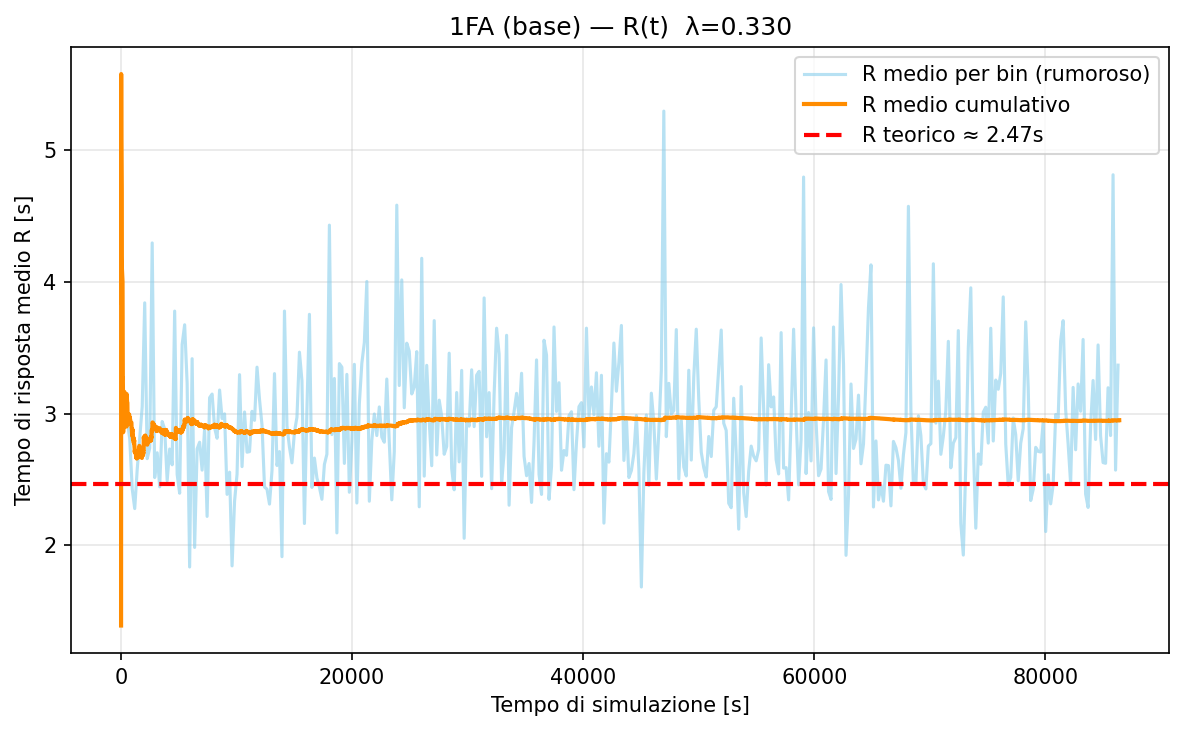
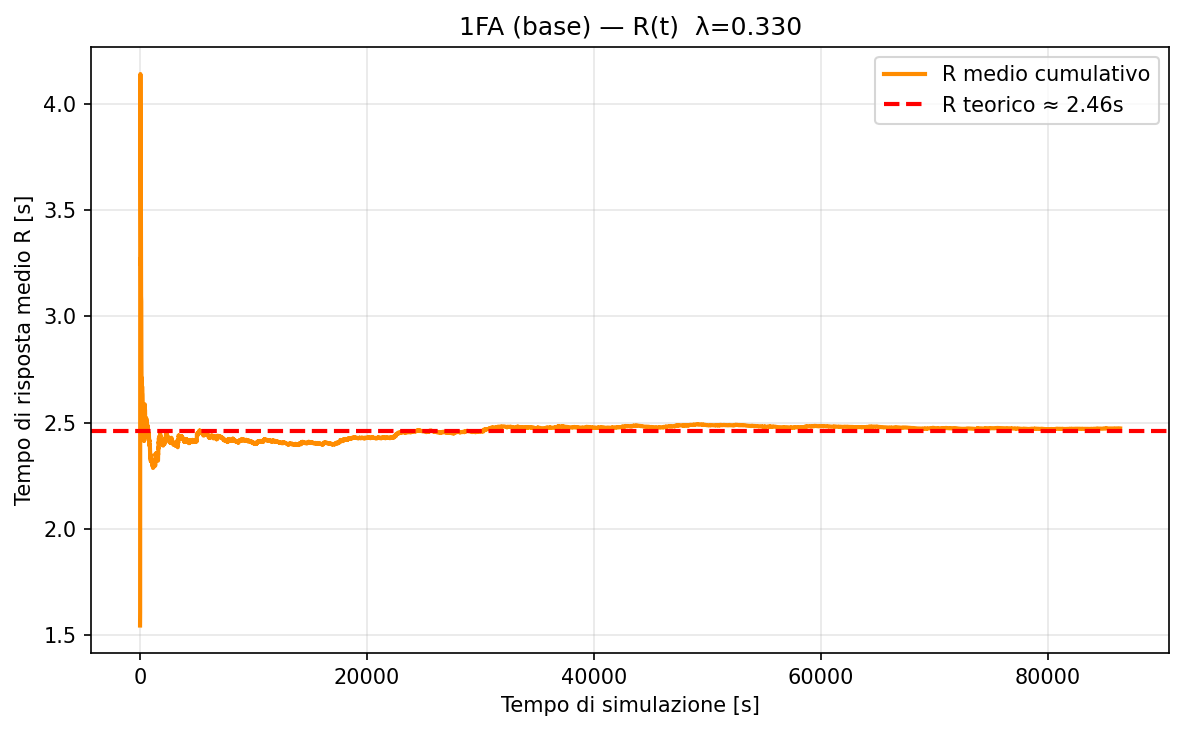
Refactor simulation workflow and cleanup controllers
Removed unused controller modules (experiments.py, finite_horizon.py, sim_runner.py, steady_state.py) and updated main.py to simplify the simulation workflow. The scenario config file was renamed for clarity. The EcommerceModel now uses exponential arrivals by default and the warmup plotting logic was refactored to focus on cumulative response time. Output and plotting scripts were updated to match the new workflow.

diff --git a/main.py b/main.py
@@ -5,21 +5,20 @@ import sys
 import argparse
 
 from model.ecommerce import EcommerceModel
-from view.warmup_plot import plot_warmup_R
-from view.validation_plot_R_and_N import sweep_R_and_N_vs_lambda  # <-- nuovo sweep combinato
+from view.warmup_plot import plot_convergence_R
 
 SEED0 = 1234
 DEFAULT_CONFIG_DIR = "config"
 
 # --- import dalla struttura a pacchetti ---
 from model.scenario import Scenario
-from view.validation_plot2 import sweep_response_vs_lambda_steady  # opzionale per fase steady
-
+from view.validation_plot1 import sweep_response_vs_lambda            # R(λ) transiente
+from view.validation_plot2 import sweep_response_vs_lambda_steady            # R(λ) transiente
+from view.validation_plot_users import sweep_users_vs_lambda          # N(λ) transiente
 
 def _slug(s: str) -> str:
     s = s.lower()
     return "".join(ch if ch.isalnum() or ch in "-._" else "_" for ch in s).strip("_")
-
 
 def _frange(start: float, end: float, step: float):
     x = float(start)
@@ -27,16 +26,11 @@ def _frange(start: float, end: float, step: float):
         yield round(x, 10)
         x = round(x + step, 10)
 
-
-def _run_warmup_plots_for_scenario(
+def _run_convergence_R_plot_for_scenario(
     scn: Scenario,
     *,
-    lam_start: float,
-    lam_end: float,
-    lam_step: float,
-    measure_s: float,
-    warmup_s: float,
-    bins: int | None = 400,
+    lam,
+    measure_s: float, warmup_s: float,
     seed: int = 1234,
     outroot: str | Path = "out",
 ) -> None:
@@ -49,32 +43,30 @@ def _run_warmup_plots_for_scenario(
     outdir.mkdir(parents=True, exist_ok=True)
     scn_slug = _slug(scn.name)
 
-    for lam in _frange(lam_start, lam_end, lam_step):
-        model = EcommerceModel(scn, seed=seed)
-        model.set_arrival_rate(lam)
-        res = model.run_finite(horizon_s=measure_s, warmup_s=warmup_s, bins=bins, verbose=False)
 
-        R_cum = res.get("R_series_cum", [])
-        R_bin = res.get("R_series_bin", None)
+    model = EcommerceModel(scn, seed=seed)
+    model.set_arrival_rate(lam)
+    res = model.run_finite(horizon_s=measure_s, warmup_s=warmup_s, verbose=False)
 
-        title = f"{scn.name} — R(t)  λ={lam:.3f}"
-        png = outdir / f"warmup_R_{scn_slug}_lam{lam:.2f}_W{int(warmup_s)}_M{int(measure_s)}.png"
+    R_cum = res.get("R_series_cum", [])
 
-        t_warm = plot_warmup_R(R_cum, R_bin, title=title, outfile=str(png), show=False)
-        if t_warm is not None:
-            print(f"[OK] Warmup plot salvato: {png}  (t_warm≈{t_warm:.1f}s)")
-        else:
-            print(f"[OK] Warmup plot salvato: {png}")
+    title = f"{scn.name} — R(t)  λ={lam:.3f}"
+    png = outdir / f"warmup_R_{scn_slug}_lam{lam:.2f}_W{int(warmup_s)}_M{int(measure_s)}.png"
+
+    t_warm = plot_convergence_R(R_cum, title=title, lam=lam, scn=scn, outfile=str(png), show=False)
+
+    if t_warm is not None:
+        print(f"[OK] Warmup plot salvato: {png}  (t_warm≈{t_warm:.1f}s)")
+    else:
+        print(f"[OK] Warmup plot salvato: {png}")
 
 
 # ------------------------------- FINITE --------------------------------------
 def run_phase_finite(config_dir: str = DEFAULT_CONFIG_DIR) -> None:
     """
     Caso TRANSIENTE (orizzonte finito):
-    - esegue un'unica tornata di repliche per λ e produce:
-        * plot R(λ) ± CI95
-        * plot N(λ) = X·R ± CI95
-    - genera anche il plot R(t) per stimare il warmup (1 run per λ)
+    - genera il plot R(λ) (già presente)
+    - genera il plot N(λ) = X·R (utenti medi nel sistema)
     per TUTTI gli scenari nella cartella config_dir.
     """
     outdir = Path("out")
@@ -89,30 +81,36 @@ def run_phase_finite(config_dir: str = DEFAULT_CONFIG_DIR) -> None:
         scn = Scenario.from_yaml(str(path))
         print(f"[FINITE] Sweep λ | scenario: {scn.name}")
 
-        # Plot combinato: UNA SOLA tornata di repliche → due PNG (R e N)
-        sweep_R_and_N_vs_lambda(
-            scn,
-            lam_start=0.5, lam_end=1.2, lam_step=0.05,
-            n_reps=15,
-            measure_s=86_400.0,  # 1 giorno
-            warmup_s=8_000.0,
-            seed0=SEED0,
-            min_completed=100,
-            outdir="out",
-            save_png=True, save_csv=False, show=False,
-        )
+        # Plot R(λ)
+        # sweep_response_vs_lambda(
+        #     scn,
+        #     lam_start=0.5, lam_end=1.2, lam_step=0.05,
+        #    seed0=SEED0,
+        # )
+
+        # Plot N(λ) = X·R (nuovo)
+        # sweep_users_vs_lambda(
+        #     scn,
+        #     # DA MODIFICARE!!!
+        #     lam_start=0.5, lam_end=1.2, lam_step=0.05,
+        #     n_reps=15,               # come nel tuo plot R(λ)
+        #     measure_s=86_400.0,      # 1 giorno di misura
+        #     warmup_s=8_000.0,        # warmup
+        #     seed0=SEED0,
+        # outdir="out", save_png=True, save_csv=False, show=False,
+        # )
 
         # Plot R(t) vs tempo per stimare warmup (1 run per λ)
         print("[USO] warmup — R(t) vs tempo (1 run per λ)")
-        _run_warmup_plots_for_scenario(
+        _run_convergence_R_plot_for_scenario(
             scn,
-            lam_start=0.33, lam_end=0.33, lam_step=0.33,
-            measure_s=86_400.0,  # finestra di misura (1 giorno)
-            warmup_s=0.0,        # warmup escluso dal calcolo delle medie
-            bins=400,            # opzionale: solo per la serie per-bin
+            lam=0.33,
+            measure_s=86_400.0,   # finestra di misura (1 giorno)
+            warmup_s=0.0,     # warmup escluso dal calcolo delle medie
             seed=SEED0,
             outroot="out",
         )
+
 
 
 # ------------------------------- STEADY --------------------------------------
@@ -123,6 +121,7 @@ def _preflight_check_steady() -> tuple[bool, str]:
     - esistenza del plotter view.validation_plot_steady (se vuoi i grafici)
     Restituisce (ok, msg_errore_o_vuoto).
     """
+    # 1) run_batch_means nel modello
     try:
         from model.ecommerce import EcommerceModel  # noqa: F401
     except Exception as e:
@@ -132,12 +131,17 @@ def _preflight_check_steady() -> tuple[bool, str]:
         if not hasattr(EcommerceModel, "run_batch_means"):
             return False, "[ERRORE] EcommerceModel.run_batch_means(...) non trovato. Implementalo prima di eseguire la fase 'r'."
 
+    # 2) plotter steady (opzionale, ma utile)
     try:
         from view.validation_plot_steady import sweep_response_vs_lambda_steady  # noqa: F401
     except Exception:
+        # non blocchiamo, ma avvisiamo
         return True, "[INFO] Plotter steady mancante (view/validation_plot_steady.py). La fase 'r' proseguirà solo se lo aggiungi."
     return True, ""
 
+# File di output CSV
+OUT_CSV_FINITE = "out/summary_finite.csv"
+OUT_FILE_PATH = "out/"  # Usato solo per creare la cartella
 
 def run_phase_steady(config_dir: str = DEFAULT_CONFIG_DIR) -> None:
     """
@@ -199,10 +203,9 @@ def main() -> None:
     mode, config_dir = _choose_mode_via_io()
     print(f"[INFO] modalità={mode} | config_dir={config_dir}")
 
-    #if mode == "steady":
-    #    run_phase_steady(config_dir=config_dir)
+    # if mode == "steady":
+        # run_phase_steady(config_dir=config_dir)
     #else:
-    #    run_phase_finite(config_dir=config_dir)
 
     run_phase_finite(config_dir=config_dir)
 

diff --git a/model/ecommerce.py b/model/ecommerce.py
@@ -56,8 +56,8 @@ class EcommerceModel:
 
             mean_iat = 1.0 / lam
             use_stream("arrivals")  # seleziona lo stream definito in rng_setup.STREAMS["arrivals"]
-            # iat = Exponential(mean_iat)  # estrae l'inter-arrivo esponenziale con media 1/λ
-            iat = HyperExp2Balanced(mean_iat, p=0.10)
+            iat = Exponential(mean_iat)  # estrae l'inter-arrivo esponenziale con media 1/λ
+            # iat = HyperExp2Balanced(mean_iat, p=0.10)
             yield self.env.timeout(iat)
             self._arrival_times.append(self.env.now)  # LOG dell’arrivo reale
 
@@ -123,7 +123,7 @@ class EcommerceModel:
             self._batcher.on_job_complete(job)
 
     # ---------- Run: orizzonte finito ----------
-    def run_finite(self, *, horizon_s: float, warmup_s: float = 0.0, bins: int | None = None,
+    def run_finite(self, *, horizon_s: float, warmup_s: float = 0.0,
                    verbose: bool = True) -> Dict:
         """
         Esegue una run a orizzonte finito (transiente) e misura le metriche nella finestra [warmup_s, horizon_s].
@@ -232,59 +232,46 @@ class EcommerceModel:
             "N_mean": N_mean,
         }
 
-        # --- Serie R(t): cumulativa e per-bin per analizzare il warmup ---
-        if bins and bins > 0:
-            # 1) Media cumulativa del tempo di risposta in funzione del tempo di completamento
-            jobs_sorted = sorted(self.jobs_completed, key=lambda j: j.completion_time)
-            R_series_cum = []
-            s = 0.0
-            n = 0
-            for j in jobs_sorted:
-                # consideriamo solo i job "puri" della finestra di misura
-                if not (t_start <= j.completion_time <= t_end):
-                    continue
-                if j.arrival_time < t_start:
-                    continue
-                n += 1
-                s += (j.completion_time - j.arrival_time)
-                R_series_cum.append((j.completion_time, s / n))
-            out["R_series_cum"] = R_series_cum
+        # --- Serie R(t) cumulativa per analizzare il warmup (nessuna logica per-bin) ---
+        jobs_puri = [
+            j for j in self.jobs_completed
+            if (t_start <= j.completion_time <= t_end) and (j.arrival_time >= t_start)
+        ]
+        jobs_sorted = sorted(jobs_puri, key=lambda j: j.completion_time)
 
-            # 2) Media per bin temporali adiacenti nella finestra [t_start, t_end]
-            width = (t_end - t_start) / bins
-            R_series_bin = []
-            for b in range(bins):
-                w0 = t_start + b * width
-                w1 = w0 + width
-                # completamenti che chiudono nel bin e con arrivo dopo l'inizio finestra
-                comp_bin = [
-                    j for j in self.jobs_completed
-                    if (w0 <= j.completion_time <= w1) and (j.arrival_time >= t_start)
-                ]
-                R_i = [j.completion_time - j.arrival_time for j in comp_bin]
-                Rm_i = (stats.mean(R_i) if R_i else float("nan"))
-                R_series_bin.append((0.5 * (w0 + w1), Rm_i))
-            out["R_series_bin"] = R_series_bin
+        R_series_cum = []
+        s = 0.0
+        for i, j in enumerate(jobs_sorted, start=1):
+            s += (j.completion_time - j.arrival_time)
+            R_series_cum.append((j.completion_time, s / i))
+        out["R_series_cum"] = R_series_cum
 
+        return out
 
-        # Serie su K finestre per studiare convergenza della stima N(t)
-        if bins and bins > 0:
-            width = (t_end - t_start) / bins
-            N_series = []
-            for b in range(bins):
-                w0 = t_start + b * width
-                w1 = w0 + width
-                # arrivi nella finestra
-                arr_in = sum((w0 <= t < w1) for t in self._arrival_times)
-                lam_i = arr_in / width if width > 0 else float("nan")
-                # completamenti con arrivo nella finestra e completamento entro la finestra
-                comp_bin = [j for j in self.jobs_completed if (w0 <= j.arrival_time < w1) and (j.completion_time <= w1)]
-                R_i = [j.completion_time - j.arrival_time for j in comp_bin]
-                Rm_i = (stats.mean(R_i) if R_i else float("nan"))
-                X_i = (len(comp_bin) / width) if width > 0 else float("nan")
-                N_i = (X_i * Rm_i) if (Rm_i == Rm_i and X_i == X_i) else float("nan")
-                N_series.append((0.5 * (w0 + w1), N_i))
-            out["N_series"] = N_series
+        # out = {
+        #     "R_mean_s": R_mean,
+        #     "X_jobs_per_s": X,
+        #     "U_A": U_A, "U_B": U_B, "U_P": U_P,
+        #     "n_completed": len(completed),
+        #     "N_mean": N_mean,
+        # }
+
+        # # --- Serie R(t): cumulativa e per-bin per analizzare il warmup ---
+        # # 1) Media cumulativa del tempo di risposta in funzione del tempo di completamento
+        # jobs_sorted = sorted(self.jobs_completed, key=lambda j: j.completion_time)
+        # R_series_cum = []
+        # s = 0.0
+        # n = 0
+        # for j in jobs_sorted:
+        #     # consideriamo solo i job "puri" della finestra di misura
+        #     if not (t_start <= j.completion_time <= t_end):
+        #         continue
+        #     if j.arrival_time < t_start:
+        #         continue
+        #     n += 1
+        #     s += (j.completion_time - j.arrival_time)
+        #     R_series_cum.append((j.completion_time, s / n))
+        # out["R_series_cum"] = R_series_cum
 
         return out
 

diff --git a/view/warmup_plot.py b/view/warmup_plot.py
@@ -26,25 +26,29 @@ def _estimate_warmup_from_cumulative(series_cum: List[Tuple[float, float]],
         prev = rbar
     return None
 
-def plot_warmup_R(R_cum, R_bin=None, *, title=None, outfile=None, show=True):
+def plot_convergence_R(R_cum, *, lam=None, scn=None, title=None, outfile=None, show=True):
     import matplotlib.pyplot as plt
 
     plt.figure(figsize=(8, 5))
 
-    # Serie per-bin (rumorosa)
-    if R_bin:
-        t_bin, y_bin = zip(*R_bin)
-        plt.plot(t_bin, y_bin, color="skyblue", alpha=0.6, label="R medio per bin (rumoroso)")
-
-    # Serie cumulativa (più stabile)
+    # Serie cumulativa
     if R_cum:
         t_cum, y_cum = zip(*R_cum)
         plt.plot(t_cum, y_cum, color="darkorange", linewidth=2, label="R medio cumulativo")
 
     # --- Calcolo teorico ---
-    lam = 1/3  # tasso di arrivo
-    D_A, D_B, D_P = 0.7, 0.8, 0.4
-    U_A, U_B, U_P = lam*D_A, lam*D_B, lam*D_P
+    # lam = 1/3  # tasso di arrivo
+    # D_A, D_B, D_P = 0.7, 0.8, 0.4
+    # U_A, U_B, U_P = lam*D_A, lam*D_B, lam*D_P
+
+    sd = getattr(scn, "service_demands", {}) or {}
+
+    D_A = sum(sd.get("A", {}).values()) if "A" in sd else 0.0
+    D_B = sum(sd.get("B", {}).values()) if "B" in sd else 0.0
+    D_P = sum(sd.get("P", {}).values()) if "P" in sd else 0.0
+
+    U_A, U_B, U_P = lam * D_A, lam * D_B, lam * D_P
+
     R_A = D_A / (1 - U_A)
     R_B = D_B / (1 - U_B)
     R_P = D_P / (1 - U_P)

diff --git a/view/validation_plot1.py b/view/validation_plot1.py
@@ -39,9 +39,8 @@ def sweep_response_vs_lambda(
     n_reps=15, measure_s=86400, warmup_s=8000, seed0=1234,
     outdir="out", save_png=True, save_csv=False, show=False,
 ):
-    print("[USO] validation_plot1 patchato")
 
-    # nome scenario sicurome
+    # nome scenario
     scenario_label = getattr(scn, "name", None)
     scenario_slug = _slug(scenario_label)
 
